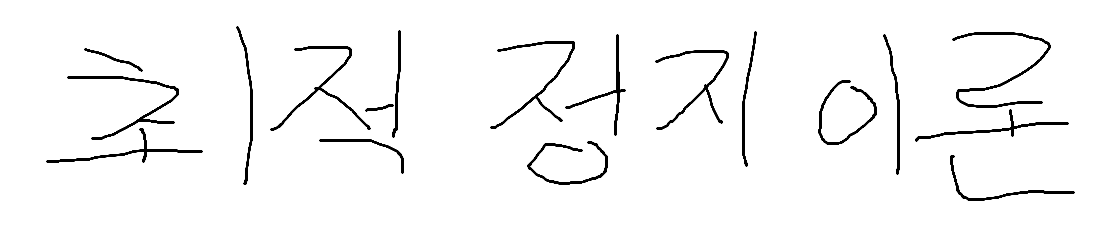
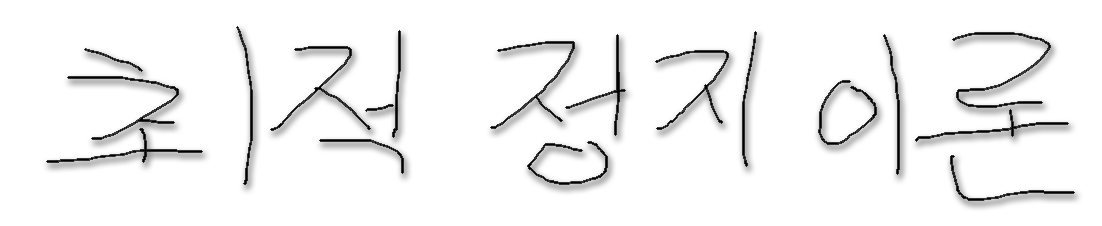
img

diff --git a/README.md b/README.md
@@ -1,7 +1,7 @@
 <div align="center">
 
 <!-- logo -->
-<img src="https://user-images.githubusercontent.com/80824750/208554558-490845c9-959a-4823-9003-350ec4d221bf.png" width="400"/>
+<img src="https://raw.githubusercontent.com/HYB1022/opti_stopping_test/refs/heads/main/title.png" width="400"/>
 
 ### 최적 정지 이론 모의 실험
 
